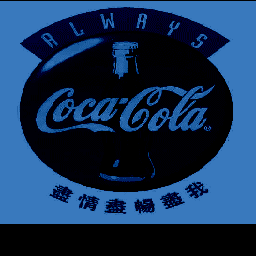
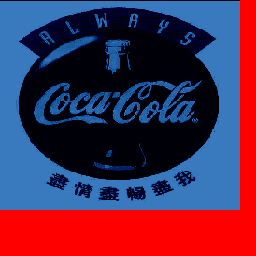
Ass, Eon Pledge, Meat Wave, Evil Explosion, Steel Wang animations.

diff --git a/src/graphics.c b/src/graphics.c
@@ -499,6 +499,21 @@ const u32 gBattleAnimSpritePal_PSIRockinOne[] = INCBIN_U32("graphics/battle_anim
 const u32 gBattleAnimSpriteGfx_PSIRockinTwo[] = INCBIN_U32("graphics/battle_anims/sprites/psi_rockin_two.4bpp.lz");
 const u32 gBattleAnimSpritePal_PSIRockinTwo[] = INCBIN_U32("graphics/battle_anims/sprites/psi_rockin_two.gbapal.lz");
 
+const u32 gBattleAnimSpriteGfx_HongKongRun[] = INCBIN_U32("graphics/battle_anims/sprites/hongkong_run.4bpp.lz");
+const u32 gBattleAnimSpritePal_HongKongRun[] = INCBIN_U32("graphics/battle_anims/sprites/hongkong_run.gbapal.lz");
+
+const u32 gBattleAnimSpriteGfx_HongKongExplosion[] = INCBIN_U32("graphics/battle_anims/sprites/hongkong_explosion.4bpp.lz");
+const u32 gBattleAnimSpritePal_HongKongExplosion[] = INCBIN_U32("graphics/battle_anims/sprites/hongkong_explosion.gbapal.lz");
+
+const u32 gBattleAnimSpriteGfx_HongKongBody[] = INCBIN_U32("graphics/battle_anims/sprites/hongkong_body.4bpp.lz");
+const u32 gBattleAnimSpritePal_HongKongBody[] = INCBIN_U32("graphics/battle_anims/sprites/hongkong_body.gbapal.lz");
+
+const u32 gBattleAnimSpriteGfx_HongKongBullet[] = INCBIN_U32("graphics/battle_anims/sprites/hongkong_bullet.4bpp.lz");
+const u32 gBattleAnimSpritePal_HongKongBullet[] = INCBIN_U32("graphics/battle_anims/sprites/hongkong_bullet.gbapal.lz");
+
+const u32 gBattleAnimSpriteGfx_HongKongDrug[] = INCBIN_U32("graphics/battle_anims/sprites/hongkong_drug.4bpp.lz");
+const u32 gBattleAnimSpritePal_HongKongDrug[] = INCBIN_U32("graphics/battle_anims/sprites/hongkong_drug.gbapal.lz");
+
 const u32 gBattleAnimSpriteGfx_Lightning[] = INCBIN_U32("graphics/battle_anims/sprites/lightning.4bpp.lz");
 
 const u32 gBattleAnimSpriteGfx_SpinningBall[] = INCBIN_U32("graphics/battle_anims/unused/spinning_ball.4bpp.lz");
@@ -1241,6 +1256,10 @@ const u32 gBattleAnimBgImage_Skyrim[] = INCBIN_U32("graphics/battle_anims/backgr
 const u32 gBattleAnimBgPalette_Skyrim[] = INCBIN_U32("graphics/battle_anims/backgrounds/skyrim_opening.gbapal.lz");
 const u32 gBattleAnimBgTilemap_Skyrim[] = INCBIN_U32("graphics/battle_anims/backgrounds/skyrim_opening.bin.lz");
 
+const u32 gBattleAnimBgImage_Coke[] = INCBIN_U32("graphics/battle_anims/backgrounds/coke.4bpp.lz");
+const u32 gBattleAnimBgPalette_Coke[] = INCBIN_U32("graphics/battle_anims/backgrounds/coke.gbapal.lz");
+const u32 gBattleAnimBgTilemap_Coke[] = INCBIN_U32("graphics/battle_anims/backgrounds/coke.bin.lz");
+
 const u32 gBattleAnimBgImage_Pewter[] = INCBIN_U32("graphics/battle_anims/backgrounds/pewter_gym.4bpp.lz");
 const u32 gBattleAnimBgPalette_Pewter[] = INCBIN_U32("graphics/battle_anims/backgrounds/pewter_gym.gbapal.lz");
 const u32 gBattleAnimBgTilemap_Pewter[] = INCBIN_U32("graphics/battle_anims/backgrounds/pewter_gym.bin.lz");
@@ -1453,6 +1472,7 @@ const u32 gBattleAnimBgPalette_MuddyWater[] = INCBIN_U32("graphics/battle_anims/
 const u32 gBattleAnimBgPalette_RedWater[] = INCBIN_U32("graphics/battle_anims/backgrounds/water_red.gbapal.lz");
 const u32 gBattleAnimBgPalette_RainbowWater[] = INCBIN_U32("graphics/battle_anims/backgrounds/water_rainbow.gbapal.lz");
 const u32 gBattleAnimBgPalette_ChocolateWater[] = INCBIN_U32("graphics/battle_anims/backgrounds/water_chocolate.gbapal.lz");
+const u32 gBattleAnimBgPalette_MeatWater[] = INCBIN_U32("graphics/battle_anims/backgrounds/water_meat.gbapal.lz");
 
 const u32 gEnemyMonShadow_Gfx[] = INCBIN_U32("graphics/battle_interface/enemy_mon_shadow.4bpp.lz");
 

diff --git a/src/battle_anim_effects_2.c b/src/battle_anim_effects_2.c
@@ -2124,6 +2124,76 @@ const struct SpriteTemplate gTCGGarbotoxinSpriteTemplate =
     .callback = AnimGarbotoxin,
 };
 
+static const union AnimCmd sHongKongRunAnimCmds[] =
+{
+    ANIMCMD_FRAME(0, 4),
+    ANIMCMD_FRAME(16, 4),
+    ANIMCMD_FRAME(32, 4),
+    ANIMCMD_FRAME(48, 4),
+    ANIMCMD_FRAME(64, 4),
+    ANIMCMD_JUMP(0),
+};
+
+static const union AnimCmd *const sHongKongRunAnimTable[] =
+{
+    sHongKongRunAnimCmds,
+};
+
+const struct SpriteTemplate gHongKongRunSpriteTemplate =
+{
+    .tileTag = ANIM_TAG_HONG_KONG_RUN,
+    .paletteTag = ANIM_TAG_HONG_KONG_RUN,
+    .oam = &gOamData_AffineOff_ObjNormal_32x32,
+    .anims = sHongKongRunAnimTable,
+    .images = NULL,
+    .affineAnims = gDummySpriteAffineAnimTable,
+    .callback = AnimSprite_MoveThenWait,
+};
+
+const struct SpriteTemplate gHongKongExplosionSpriteTemplate =
+{
+    .tileTag = ANIM_TAG_HONG_KONG_EXPLOSION,
+    .paletteTag = ANIM_TAG_HONG_KONG_EXPLOSION,
+    .oam = &gOamData_AffineOff_ObjNormal_32x32,
+    .anims = sHongKongRunAnimTable,
+    .images = NULL,
+    .affineAnims = gDummySpriteAffineAnimTable,
+    .callback = AnimSprite_MoveThenWait,
+};
+
+const struct SpriteTemplate gHongKongBulletSpriteTemplate =
+{
+    .tileTag = ANIM_TAG_HONG_KONG_BULLET,
+    .paletteTag = ANIM_TAG_HONG_KONG_BULLET,
+    .oam = &gOamData_AffineOff_ObjNormal_8x8,
+    .anims = gDummySpriteAnimTable,
+    .images = NULL,
+    .affineAnims = gDummySpriteAffineAnimTable,
+    .callback = AnimSprite_MoveThenWait,
+};
+
+const struct SpriteTemplate gHongKongBodySpriteTemplate =
+{
+    .tileTag = ANIM_TAG_HONG_KONG_BODY,
+    .paletteTag = ANIM_TAG_HONG_KONG_BODY,
+    .oam = &gOamData_AffineOff_ObjNormal_64x64,
+    .anims = gDummySpriteAnimTable,
+    .images = NULL,
+    .affineAnims = gDummySpriteAffineAnimTable,
+    .callback = AnimSprite_MoveThenWait,
+};
+
+const struct SpriteTemplate gLatinasSpriteTemplate =
+{
+    .tileTag = ANIM_TAG_LATINAS,
+    .paletteTag = ANIM_TAG_LATINAS,
+    .oam = &gOamData_AffineOff_ObjNormal_64x64,
+    .anims = gDummySpriteAnimTable,
+    .images = NULL,
+    .affineAnims = gDummySpriteAffineAnimTable,
+    .callback = AnimSprite_MoveThenWait,
+};
+
 
 static const union AnimCmd sAnim_Card0[] = { ANIMCMD_FRAME(0, 0), ANIMCMD_END };
 static const union AnimCmd sAnim_Card1[] = { ANIMCMD_FRAME(16, 0), ANIMCMD_END };

diff --git a/include/graphics.h b/include/graphics.h
@@ -8862,6 +8862,11 @@ extern const u32 gBattleAnimSpriteGfx_Hotdog[];
 extern const u32 gBattleAnimSpriteGfx_AcidRainDrops[];
 extern const u32 gBattleAnimSpriteGfx_PSIRockinOne[];
 extern const u32 gBattleAnimSpriteGfx_PSIRockinTwo[];
+extern const u32 gBattleAnimSpriteGfx_HongKongRun[];
+extern const u32 gBattleAnimSpriteGfx_HongKongExplosion[];
+extern const u32 gBattleAnimSpriteGfx_HongKongBody[];
+extern const u32 gBattleAnimSpriteGfx_HongKongBullet[];
+extern const u32 gBattleAnimSpriteGfx_HongKongDrug[];
 
 // battle anim particle pals
 extern const u32 gBattleAnimSpritePal_Bone[];
@@ -9277,6 +9282,11 @@ extern const u32 gBattleAnimSpritePal_Hotdog[];
 extern const u32 gBattleAnimSpritePal_AcidRainDrops[];
 extern const u32 gBattleAnimSpritePal_PSIRockinOne[];
 extern const u32 gBattleAnimSpritePal_PSIRockinTwo[];
+extern const u32 gBattleAnimSpritePal_HongKongRun[];
+extern const u32 gBattleAnimSpritePal_HongKongExplosion[];
+extern const u32 gBattleAnimSpritePal_HongKongBody[];
+extern const u32 gBattleAnimSpritePal_HongKongBullet[];
+extern const u32 gBattleAnimSpritePal_HongKongDrug[];
 
 //CSR Moves
 
@@ -9330,6 +9340,7 @@ extern const u32 gBattleAnimBgImage_IraqFlag[];
 extern const u32 gBattleAnimBgImage_AceFlag[];
 extern const u32 gBattleAnimBgImage_SolaceonTown[];
 extern const u32 gBattleAnimBgImage_Pewter[];
+extern const u32 gBattleAnimBgImage_Coke[];
 
 extern const u32 gBattleAnimBgPalette_Dark[];
 extern const u32 gBattleAnimBgPalette_Ghost[];
@@ -9363,6 +9374,8 @@ extern const u32 gBattleAnimBgPalette_IraqFlag[];
 extern const u32 gBattleAnimBgPalette_AceFlag[];
 extern const u32 gBattleAnimBgPalette_SolaceonTown[];
 extern const u32 gBattleAnimBgPalette_Pewter[];
+extern const u32 gBattleAnimBgPalette_Coke[];
+extern const u32 gBattleAnimBgPalette_MeatWater[];
 
 extern const u32 gBattleAnimBgTilemap_Dark[];
 extern const u32 gBattleAnimBgTilemap_Ghost[];
@@ -9397,6 +9410,7 @@ extern const u32 gBattleAnimBgTilemap_IraqFlag[];
 extern const u32 gBattleAnimBgTilemap_AceFlag[];
 extern const u32 gBattleAnimBgTilemap_SolaceonTown[];
 extern const u32 gBattleAnimBgTilemap_Pewter[];
+extern const u32 gBattleAnimBgTilemap_Coke[];
 
 // dark
 extern const u32 gMetalShineGfx[];

diff --git a/src/data/battle_anim.h b/src/data/battle_anim.h
@@ -1500,6 +1500,11 @@ const struct CompressedSpriteSheet gBattleAnimPicTable[] =
     {gBattleAnimSpriteGfx_AcidRainDrops, 0x0700, ANIM_TAG_ACID_RAIN_DROPS},
     {gBattleAnimSpriteGfx_PSIRockinOne, 0x0E00, ANIM_TAG_PSI_ROCKIN_ONE},
     {gBattleAnimSpriteGfx_PSIRockinTwo, 0x0E00, ANIM_TAG_PSI_ROCKIN_TWO},
+    {gBattleAnimSpriteGfx_HongKongRun, 0x0A00, ANIM_TAG_HONG_KONG_RUN},
+    {gBattleAnimSpriteGfx_HongKongExplosion, 0x0A00, ANIM_TAG_HONG_KONG_EXPLOSION},
+    {gBattleAnimSpriteGfx_HongKongBody, 0x0800, ANIM_TAG_HONG_KONG_BODY},
+    {gBattleAnimSpriteGfx_HongKongBullet, 0x0020, ANIM_TAG_HONG_KONG_BULLET},
+    {gBattleAnimSpriteGfx_HongKongDrug, 0x0200, ANIM_TAG_HONG_KONG_DRUG},
 };
 
 const struct CompressedSpritePalette gBattleAnimPaletteTable[] =
@@ -1965,6 +1970,11 @@ const struct CompressedSpritePalette gBattleAnimPaletteTable[] =
     {gBattleAnimSpritePal_AcidRainDrops, ANIM_TAG_ACID_RAIN_DROPS},
     {gBattleAnimSpritePal_PSIRockinOne, ANIM_TAG_PSI_ROCKIN_ONE},
     {gBattleAnimSpritePal_PSIRockinTwo, ANIM_TAG_PSI_ROCKIN_TWO},
+    {gBattleAnimSpritePal_HongKongRun, ANIM_TAG_HONG_KONG_RUN},
+    {gBattleAnimSpritePal_HongKongExplosion, ANIM_TAG_HONG_KONG_EXPLOSION},
+    {gBattleAnimSpritePal_HongKongBody, ANIM_TAG_HONG_KONG_BODY},
+    {gBattleAnimSpritePal_HongKongBullet, ANIM_TAG_HONG_KONG_BULLET},
+    {gBattleAnimSpritePal_HongKongDrug, ANIM_TAG_HONG_KONG_DRUG},
 };
 
 const struct BattleAnimBackground gBattleAnimBackgroundTable[] =
@@ -2006,4 +2016,5 @@ const struct BattleAnimBackground gBattleAnimBackgroundTable[] =
     [BG_ACE_FLAG]            = {gBattleAnimBgImage_AceFlag,    gBattleAnimBgPalette_AceFlag,    gBattleAnimBgTilemap_AceFlag},
     [BG_SOLACEON_TOWN]       = {gBattleAnimBgImage_SolaceonTown,     gBattleAnimBgPalette_SolaceonTown,     gBattleAnimBgTilemap_SolaceonTown},
     [BG_PEWTER]              = {gBattleAnimBgImage_Pewter,     gBattleAnimBgPalette_Pewter,     gBattleAnimBgTilemap_Pewter},
+    [BG_COKE]                = {gBattleAnimBgImage_Coke,       gBattleAnimBgPalette_Coke,       gBattleAnimBgTilemap_Coke},
 };

diff --git a/include/constants/battle_anim.h b/include/constants/battle_anim.h
@@ -468,6 +468,11 @@
 #define ANIM_TAG_ACID_RAIN_DROPS            (ANIM_SPRITES_START + 458)
 #define ANIM_TAG_PSI_ROCKIN_ONE             (ANIM_SPRITES_START + 459)
 #define ANIM_TAG_PSI_ROCKIN_TWO             (ANIM_SPRITES_START + 460)
+#define ANIM_TAG_HONG_KONG_RUN              (ANIM_SPRITES_START + 461)
+#define ANIM_TAG_HONG_KONG_EXPLOSION        (ANIM_SPRITES_START + 462)
+#define ANIM_TAG_HONG_KONG_BODY             (ANIM_SPRITES_START + 463)
+#define ANIM_TAG_HONG_KONG_BULLET           (ANIM_SPRITES_START + 464)
+#define ANIM_TAG_HONG_KONG_DRUG             (ANIM_SPRITES_START + 465)
 
 // battlers
 #define ANIM_ATTACKER       0
@@ -532,6 +537,7 @@
 #define BG_ACE_FLAG 35
 #define BG_SOLACEON_TOWN 36
 #define BG_PEWTER 37
+#define BG_COKE 38
 
 // table ids for general animations (gBattleAnims_General)
 #define B_ANIM_CASTFORM_CHANGE          0

diff --git a/src/battle_anim_water.c b/src/battle_anim_water.c
@@ -1102,6 +1102,8 @@ void AnimTask_CreateSurfWave(u8 taskId)
         LoadCompressedPalette(gBattleAnimBgPalette_RainbowWater, BG_PLTT_ID(animBg.paletteId), PLTT_SIZE_4BPP);
     else if(gBattleAnimArgs[0] == 4)
         LoadCompressedPalette(gBattleAnimBgPalette_ChocolateWater, BG_PLTT_ID(animBg.paletteId), PLTT_SIZE_4BPP);
+    else if(gBattleAnimArgs[0] == 5)
+        LoadCompressedPalette(gBattleAnimBgPalette_MeatWater, BG_PLTT_ID(animBg.paletteId), PLTT_SIZE_4BPP);
     taskId2 = CreateTask(AnimTask_SurfWaveScanlineEffect, gTasks[taskId].priority + 1);
     gTasks[taskId].data[15] = taskId2;
     gTasks[taskId2].data[0] = 0;

diff --git a/src/battle_anim_rock.c b/src/battle_anim_rock.c
@@ -149,6 +149,17 @@ const struct SpriteTemplate gRockFragmentSpriteTemplate =
     .callback = AnimRockFragment,
 };
 
+const struct SpriteTemplate gMeatFragmentSpriteTemplate =
+{
+    .tileTag = ANIM_TAG_MEATBALL,
+    .paletteTag = ANIM_TAG_MEATBALL,
+    .oam = &gOamData_AffineOff_ObjNormal_32x32,
+    .anims = sAnims_FlyingRock,
+    .images = NULL,
+    .affineAnims = gDummySpriteAffineAnimTable,
+    .callback = AnimRockFragment,
+};
+
 const struct SpriteTemplate gRockFragmentSelfSpriteTemplate =
 {
     .tileTag = ANIM_TAG_ROCKS,
